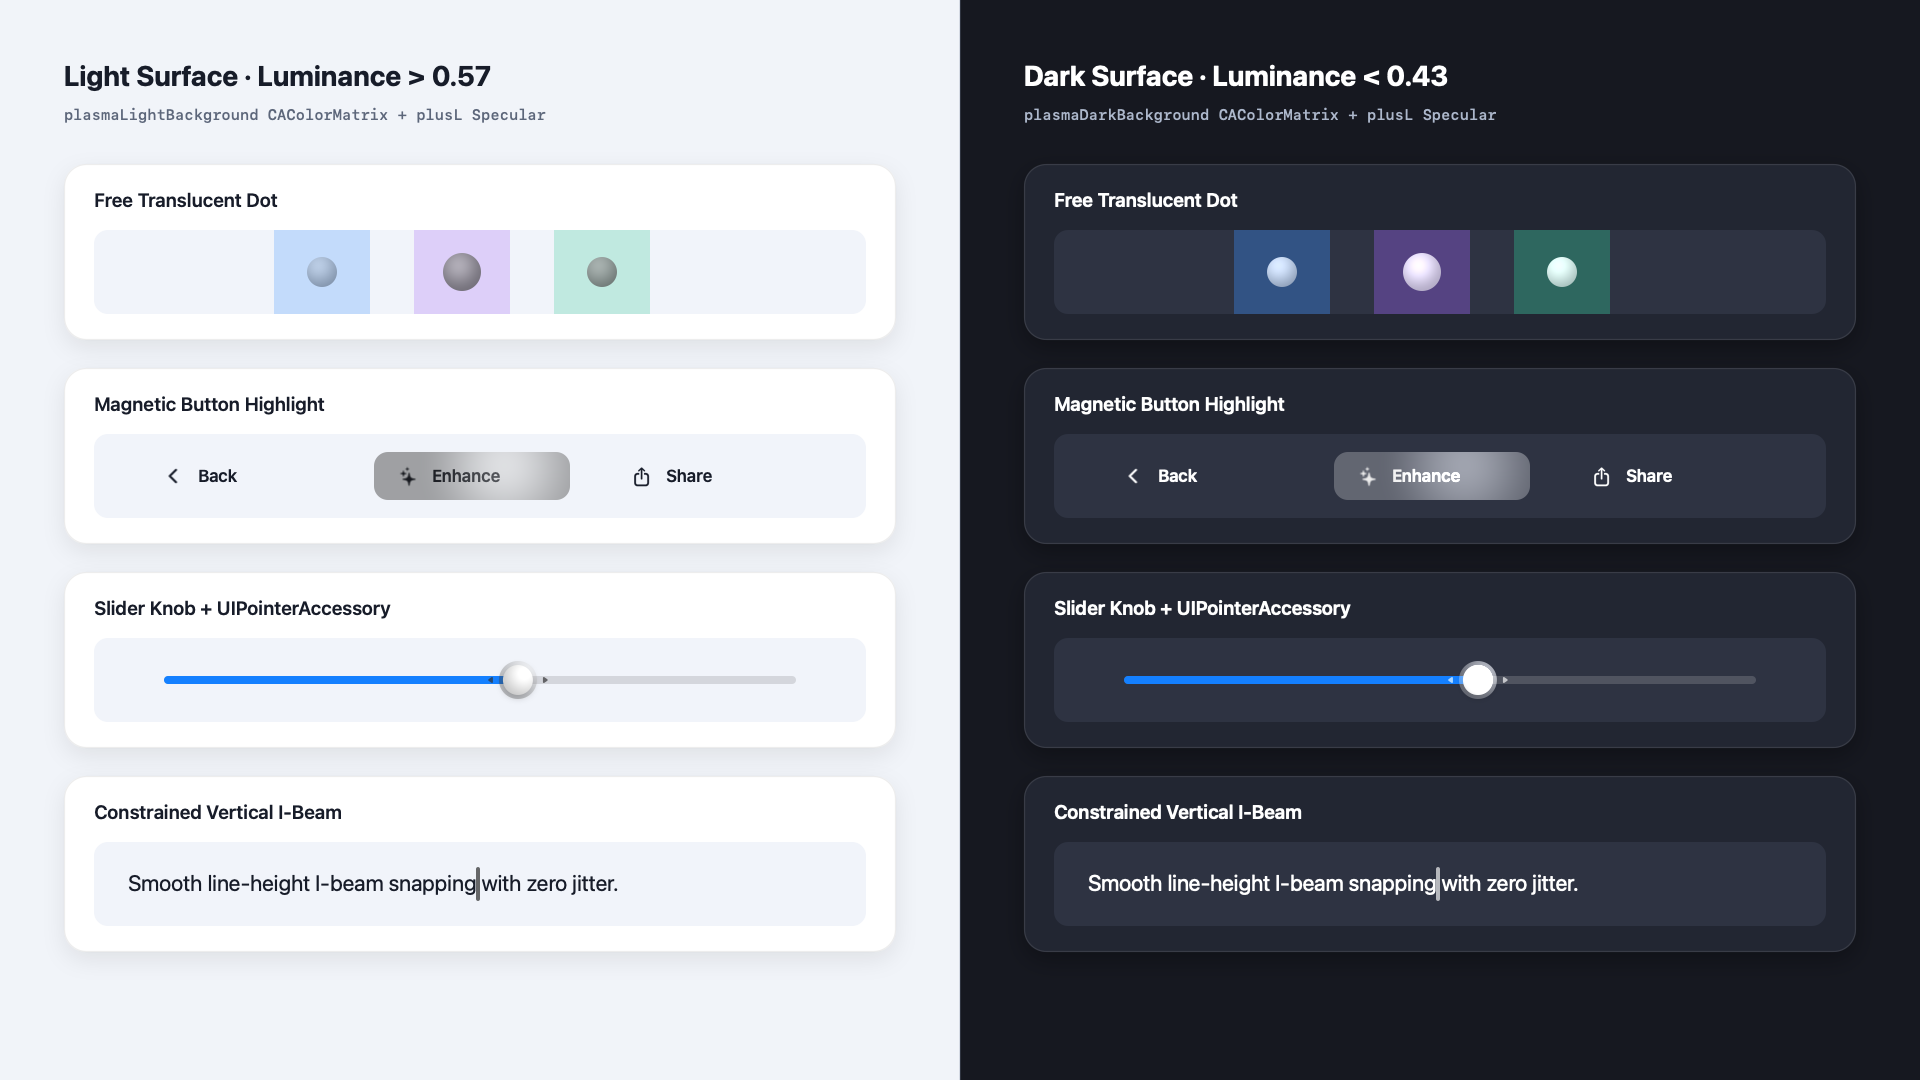
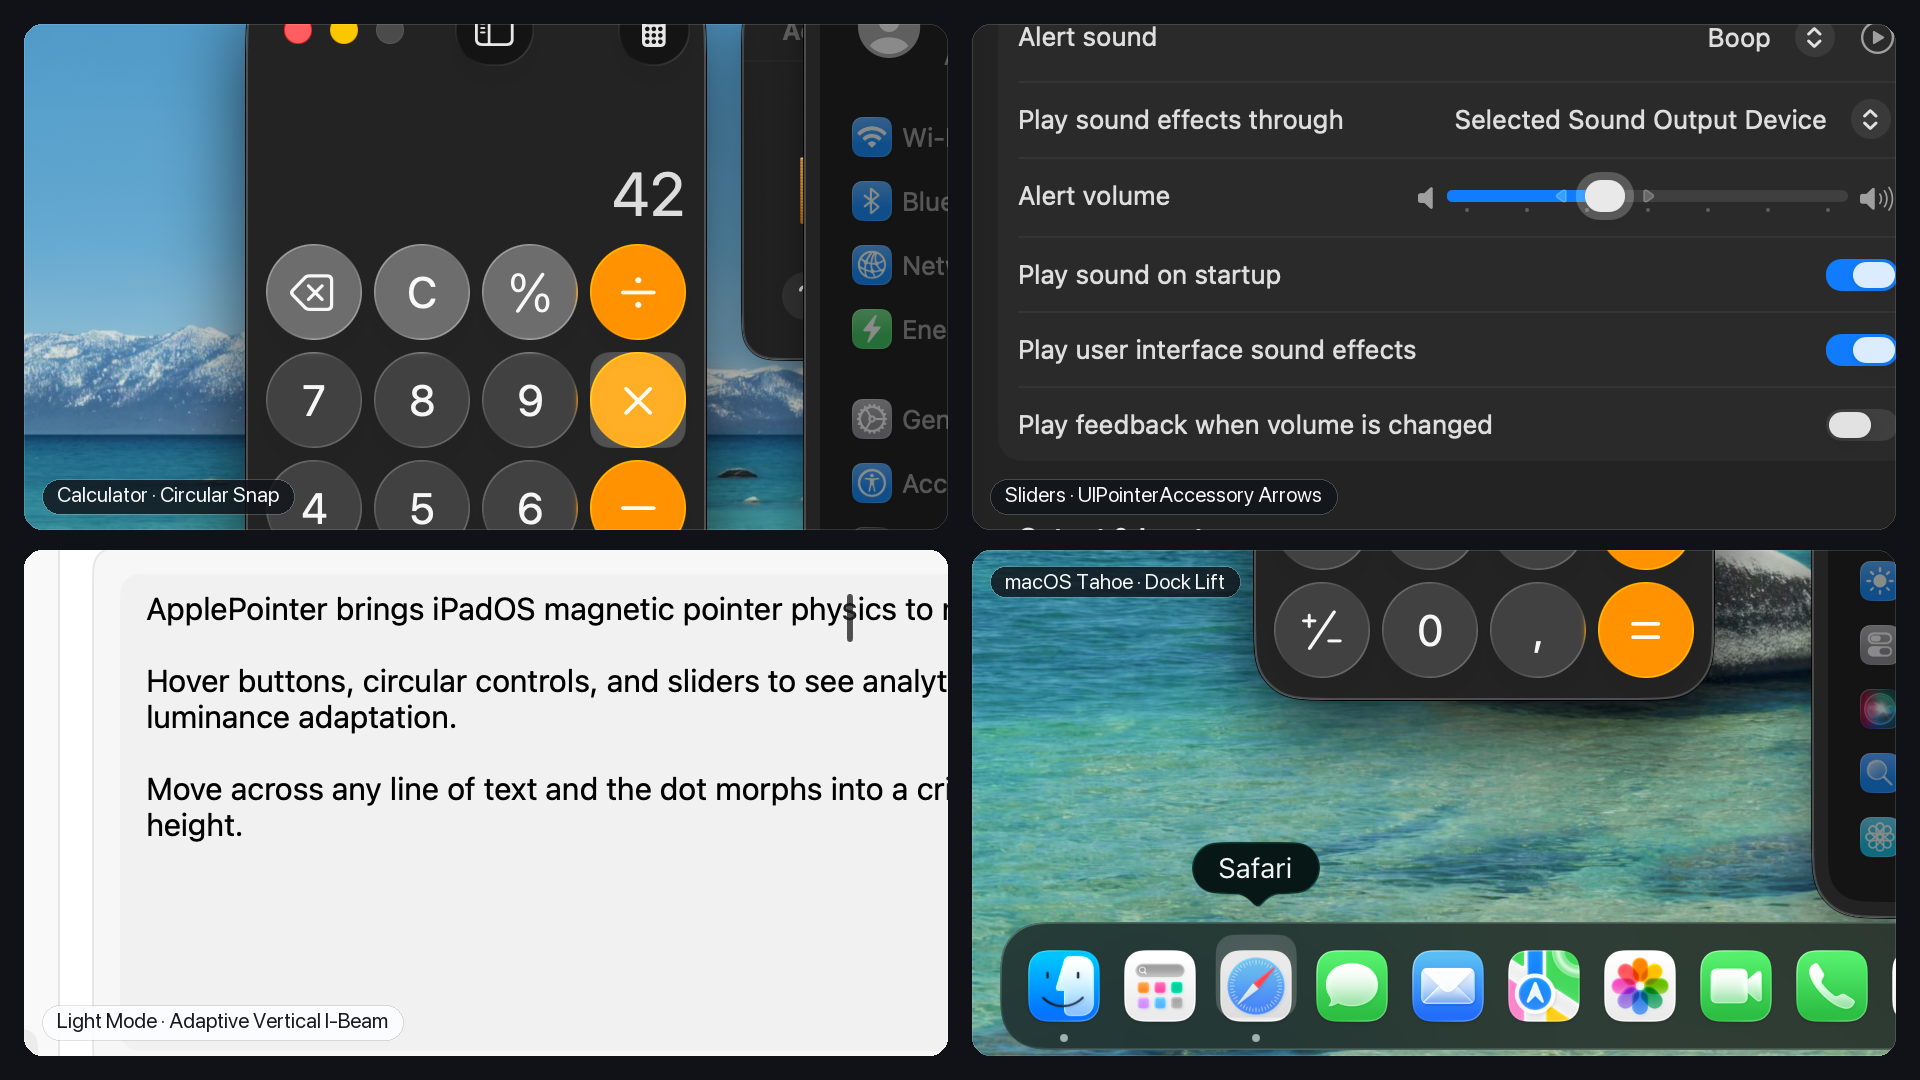
Add Highlight Contrast slider, stronger default snap contrast, and clean macOS Tahoe showcase media (v1.1.0) (#1)

diff --git a/Tests/ApplePointerCoreTests/ApplePointerCoreTests.swift b/Tests/ApplePointerCoreTests/ApplePointerCoreTests.swift
@@ -363,13 +363,13 @@ struct ApplePointerCoreTests {
         for i in 1...180 {
             s = engine.step(dt: 1.0 / 120.0, timestamp: Double(i) / 120.0)
         }
-        #expect(abs(s.intensity - 0.63) < 0.02)
+        #expect(abs(s.intensity - 0.72) < 0.02)
 
         engine.updateBackgroundLuma(0.2)
         for i in 181...360 {
             s = engine.step(dt: 1.0 / 120.0, timestamp: Double(i) / 120.0)
         }
-        #expect(abs(s.intensity - 0.58) < 0.02)
+        #expect(abs(s.intensity - 0.67) < 0.02)
     }
 
     @Test("Specular highlight alpha and scale follow standard and prominent multipliers")
@@ -769,8 +769,12 @@ struct ApplePointerCoreTests {
         #expect(snappedState.isSnapped)
         #expect(snappedState.arrowBlend < 0.02)
         #expect(abs(snappedState.cornerRadius - 18.0) < 0.2)
-        #expect(abs(snappedState.colorMatrix.m15 - PointerColorMatrix.contentOverlayDarkBackground.m15) < 0.02)
-        #expect(abs(snappedState.colorMatrix.m45 - PointerColorMatrix.contentOverlayDarkBackground.m45) < 0.02)
+        let expectedDefaultDark = PointerColorMatrix.contentOverlayDarkBackground.applyingHighlightContrast(
+            isDarkBackground: true,
+            contrast: Float(PointerConfiguration.defaultHighlightContrast)
+        )
+        #expect(abs(snappedState.colorMatrix.m15 - expectedDefaultDark.m15) < 0.02)
+        #expect(abs(snappedState.colorMatrix.m45 - expectedDefaultDark.m45) < 0.02)
 
         // Enabling Increase Contrast boosts snapped highlight intensity cleanly
         engine.configuration.highContrast = true
@@ -800,7 +804,7 @@ struct ApplePointerCoreTests {
         }
         #expect(menuState.isSnapped)
         #expect(abs(menuState.center.x - 130.0) < 0.2) // strictly centered, zero edge overflow
-        #expect(menuState.intensity < 0.22)
+        #expect(menuState.intensity < 0.26)
 
         // Screenshot crosshair overrides snapping and morphs cleanly
         engine.updateSystemCrosshair(true)
@@ -868,6 +872,63 @@ struct ApplePointerCoreTests {
         }
         #expect(abs(subtleState.intensity - (0.74 * 0.60)) < 0.02)
         #expect(subtleState.dotVividnessBoost < 0.01)
+    }
+
+    @Test("Highlight contrast slider scales snapped intensity and color matrix cleanly on light and dark backgrounds")
+    func highlightContrastSliderScalesSnappedMaterial() {
+        var cfg = PointerConfiguration(highlightContrast: 0.20)
+        #expect(abs(cfg.highlightContrast - PointerConfiguration.highlightContrastRange.lowerBound) < 1e-6)
+        cfg = PointerConfiguration(highlightContrast: 3.50)
+        #expect(abs(cfg.highlightContrast - PointerConfiguration.highlightContrastRange.upperBound) < 1e-6)
+
+        // Legacy config JSON without highlightContrast decodes to defaultHighlightContrast (1.0)
+        let legacyJSON = Data(#"{"enabled":true}"#.utf8)
+        let legacyDecoded = try! JSONDecoder().decode(PointerConfiguration.self, from: legacyJSON)
+        #expect(abs(legacyDecoded.highlightContrast - PointerConfiguration.defaultHighlightContrast) < 1e-6)
+
+        let btn = HitTarget(
+            id: "contrast-btn",
+            rect: CGRect(x: 80, y: 82, width: 60, height: 34),
+            cornerRadius: 10.0,
+            kind: .highlight,
+            slipX: 0.099,
+            slipY: 0.09,
+            maxSlipPoints: 6.0,
+            overlayEffectStyle: .standard
+        )
+
+        func settle(contrast: CGFloat, dark: Bool) -> PointerRenderState {
+            let engine = PointerEngine(
+                initialPosition: CGPoint(x: 110, y: 99),
+                timestamp: 0.0,
+                configuration: PointerConfiguration(highlightContrast: contrast)
+            )
+            engine.updateBackgroundLuma(dark ? 0.15 : 0.90)
+            engine.updateHitTarget(btn, at: 0.0)
+            var st = engine.step(dt: 1.0 / 120.0, timestamp: 0.01)
+            for i in 1...180 {
+                st = engine.step(dt: 1.0 / 120.0, timestamp: Double(i) / 120.0)
+            }
+            return st
+        }
+
+        let darkLow = settle(contrast: 0.50, dark: true)
+        let darkDefault = settle(contrast: 1.00, dark: true)
+        let darkHigh = settle(contrast: 1.80, dark: true)
+        #expect(darkDefault.intensity > darkLow.intensity + 0.08)
+        #expect(darkHigh.intensity > darkDefault.intensity + 0.12)
+        #expect(darkDefault.colorMatrix.m15 > darkLow.colorMatrix.m15 + 0.05)
+        #expect(darkDefault.colorMatrix.m45 > darkLow.colorMatrix.m45 + 0.10)
+        #expect(darkHigh.colorMatrix.m15 > darkDefault.colorMatrix.m15 + 0.08)
+
+        let lightLow = settle(contrast: 0.50, dark: false)
+        let lightDefault = settle(contrast: 1.00, dark: false)
+        let lightHigh = settle(contrast: 1.80, dark: false)
+        #expect(lightDefault.intensity > lightLow.intensity + 0.08)
+        #expect(lightHigh.intensity > lightDefault.intensity + 0.12)
+        #expect(lightDefault.colorMatrix.m15 < lightLow.colorMatrix.m15 - 0.03)
+        #expect(lightDefault.colorMatrix.m45 > lightLow.colorMatrix.m45 + 0.10)
+        #expect(lightHigh.colorMatrix.m15 < lightDefault.colorMatrix.m15 - 0.05)
     }
 
     @Test("Constrained vertical I-beam tracks X 1:1 while magnetically aligning Y to text line center")

diff --git a/Sources/ApplePointerCore/PointerEngine.swift b/Sources/ApplePointerCore/PointerEngine.swift
@@ -491,6 +491,8 @@ public final class PointerEngine: @unchecked Sendable {
             : (configuration.highContrast
                 ? ApplePointerConstants.Material.materialAlphaSmallItemDarkHighContrast
                 : ApplePointerConstants.Material.materialAlphaSmallItemDark)
+        let highlightContrast = PointerConfiguration.clampHighlightContrast(configuration.highlightContrast)
+        let highlightContrastShift = (highlightContrast - 0.50) * 0.22
 
         if !isResizing && !isCrosshair && !isSpecialCursor && (systemIBeamActive || activeTarget?.kind == .beam) {
             isSnapped = true
@@ -575,9 +577,9 @@ public final class PointerEngine: @unchecked Sendable {
                 // Keep Liquid Glass object highlights crisp & clearly legible (never dimmer than the free dot)
                 if target.suppressOutline {
                     // Seamless borderless embedding for 3D molecular pieces (clean optical veil, never muddy)
-                    targetIntensity = min(0.76, flexBase + (configuration.highContrast ? 0.22 : 0.10))
+                    targetIntensity = max(0.22, min(0.88, flexBase + (configuration.highContrast ? 0.20 : 0.08) + highlightContrastShift * 0.80))
                 } else {
-                    targetIntensity = min(0.88, flexBase + (configuration.highContrast ? 0.28 : 0.18))
+                    targetIntensity = max(0.24, min(0.96, flexBase + (configuration.highContrast ? 0.26 : 0.16) + highlightContrastShift))
                 }
 
             case .menuItem:
@@ -590,7 +592,8 @@ public final class PointerEngine: @unchecked Sendable {
                 mappedSlip = .zero
                 // Native macOS menus already draw their own selection pill; keep our overlay
                 // subtle so the pointer morphs cleanly into the row without washing out text.
-                targetIntensity = configuration.highContrast ? 0.28 : (effectiveDarkBackground ? 0.20 : 0.18)
+                let baseMenuIntensity: CGFloat = configuration.highContrast ? 0.26 : (effectiveDarkBackground ? 0.18 : 0.16)
+                targetIntensity = max(0.12, min(0.48, baseMenuIntensity + highlightContrastShift * 0.45))
 
             case .lift:
                 isSnapped = true
@@ -621,7 +624,7 @@ public final class PointerEngine: @unchecked Sendable {
                     isDarkBackground: effectiveDarkBackground,
                     visualIntensity: smallItemBaseIntensity
                 )
-                targetIntensity = min(0.82, liftFlex + (configuration.highContrast ? 0.22 : 0.10))
+                targetIntensity = max(0.24, min(0.94, liftFlex + (configuration.highContrast ? 0.20 : 0.10) + highlightContrastShift * 0.90))
 
             case .hover:
                 isSnapped = true
@@ -645,7 +648,7 @@ public final class PointerEngine: @unchecked Sendable {
                     isDarkBackground: effectiveDarkBackground,
                     visualIntensity: smallItemBaseIntensity
                 )
-                targetIntensity = min(0.86, hoverFlex + (configuration.highContrast ? 0.26 : 0.18))
+                targetIntensity = max(0.24, min(0.95, hoverFlex + (configuration.highContrast ? 0.24 : 0.16) + highlightContrastShift))
 
             case .scrollThumb:
                 isSnapped = true
@@ -655,7 +658,8 @@ public final class PointerEngine: @unchecked Sendable {
                 targetRect = target.rect
                 targetCornerRadius = min(target.rect.width, target.rect.height) * 0.5
                 mappedSlip = CGPoint(x: max(0.0, min(1.0, target.slipX)), y: max(0.0, min(1.0, target.slipY)))
-                targetIntensity = configuration.highContrast ? 0.65 : (effectiveDarkBackground ? 0.48 : 0.42)
+                let baseScrollIntensity: CGFloat = configuration.highContrast ? 0.62 : (effectiveDarkBackground ? 0.46 : 0.40)
+                targetIntensity = max(0.25, min(0.88, baseScrollIntensity + highlightContrastShift * 0.75))
             }
         } else {
             isSnapped = false
@@ -835,9 +839,18 @@ public final class PointerEngine: @unchecked Sendable {
 
         let blendedMatrix: PointerColorMatrix
         if isSnapped && !isBeam {
+            let effectiveHighlightContrast = Float(highlightContrast + (configuration.highContrast ? 0.30 : 0.0))
+            let lightOverlay = PointerColorMatrix.contentOverlayLightBackground.applyingHighlightContrast(
+                isDarkBackground: false,
+                contrast: effectiveHighlightContrast
+            )
+            let darkOverlay = PointerColorMatrix.contentOverlayDarkBackground.applyingHighlightContrast(
+                isDarkBackground: true,
+                contrast: effectiveHighlightContrast
+            )
             let baseSnapped = PointerColorMatrix.lerp(
-                .contentOverlayLightBackground,
-                .contentOverlayDarkBackground,
+                lightOverlay,
+                darkOverlay,
                 t: Float(lumaMix.value)
             )
             blendedMatrix = baseSnapped.applyingPressedContrast(

diff --git a/Sources/ApplePointerCore/PointerModels.swift b/Sources/ApplePointerCore/PointerModels.swift
@@ -83,6 +83,8 @@ public struct PointerConfiguration: Codable, Equatable, Sendable {
     public static let dotSizeRange: ClosedRange<CGFloat> = 0.50...2.00
     public static let mouseSizeRange: ClosedRange<CGFloat> = 1.00...2.00
     public static let dotIntensityRange: ClosedRange<CGFloat> = 0.50...1.50
+    public static let highlightContrastRange: ClosedRange<CGFloat> = 0.50...2.00
+    public static let defaultHighlightContrast: CGFloat = 1.00
     public static let autohideDurationRange: ClosedRange<TimeInterval> = 1.0...15.0
     public static let defaultExcludedBundleIDs: [String] = [
         "com.apple.ScreenSharing",
@@ -101,6 +103,7 @@ public struct PointerConfiguration: Codable, Equatable, Sendable {
     public var dotLiquidGlassEnabled: Bool
     public var dotSizeMultiplier: CGFloat
     public var dotIntensity: CGFloat
+    public var highlightContrast: CGFloat
     public var mouseSizeMultiplier: CGFloat
     public var magnetismEnabled: Bool
     public var inertiaEnabled: Bool
@@ -157,6 +160,10 @@ public struct PointerConfiguration: Codable, Equatable, Sendable {
         max(dotIntensityRange.lowerBound, min(dotIntensityRange.upperBound, value))
     }
 
+    public static func clampHighlightContrast(_ value: CGFloat) -> CGFloat {
+        max(highlightContrastRange.lowerBound, min(highlightContrastRange.upperBound, value))
+    }
+
     public static func clampAutohideDuration(_ value: TimeInterval) -> TimeInterval {
         max(autohideDurationRange.lowerBound, min(autohideDurationRange.upperBound, value))
     }
@@ -168,6 +175,7 @@ public struct PointerConfiguration: Codable, Equatable, Sendable {
         dotLiquidGlassEnabled: Bool? = nil,
         dotSizeMultiplier: CGFloat = 1.0,
         dotIntensity: CGFloat = 1.0,
+        highlightContrast: CGFloat = PointerConfiguration.defaultHighlightContrast,
         mouseSizeMultiplier: CGFloat = 1.0,
         magnetismEnabled: Bool = true,
         inertiaEnabled: Bool = true,
@@ -190,6 +198,7 @@ public struct PointerConfiguration: Codable, Equatable, Sendable {
         self.dotLiquidGlassEnabled = dotLiquidGlassEnabled ?? (materialPreset == .liquidGlass)
         self.dotSizeMultiplier = Self.clampDotSize(dotSizeMultiplier)
         self.dotIntensity = Self.clampDotIntensity(dotIntensity)
+        self.highlightContrast = Self.clampHighlightContrast(highlightContrast)
         self.mouseSizeMultiplier = Self.clampMouseSize(mouseSizeMultiplier)
         self.magnetismEnabled = magnetismEnabled
         self.inertiaEnabled = inertiaEnabled
@@ -214,6 +223,7 @@ public struct PointerConfiguration: Codable, Equatable, Sendable {
         case dotLiquidGlassEnabled
         case dotSizeMultiplier
         case dotIntensity
+        case highlightContrast
         case mouseSizeMultiplier
         case pointerSizeMultiplier
         case magnetismEnabled
@@ -241,6 +251,7 @@ public struct PointerConfiguration: Codable, Equatable, Sendable {
         let legacySize = try c.decodeIfPresent(CGFloat.self, forKey: .pointerSizeMultiplier) ?? 1.0
         self.dotSizeMultiplier = Self.clampDotSize(try c.decodeIfPresent(CGFloat.self, forKey: .dotSizeMultiplier) ?? legacySize)
         self.dotIntensity = Self.clampDotIntensity(try c.decodeIfPresent(CGFloat.self, forKey: .dotIntensity) ?? 1.0)
+        self.highlightContrast = Self.clampHighlightContrast(try c.decodeIfPresent(CGFloat.self, forKey: .highlightContrast) ?? Self.defaultHighlightContrast)
         self.mouseSizeMultiplier = Self.clampMouseSize(try c.decodeIfPresent(CGFloat.self, forKey: .mouseSizeMultiplier) ?? legacySize)
         self.magnetismEnabled = try c.decodeIfPresent(Bool.self, forKey: .magnetismEnabled) ?? true
         self.inertiaEnabled = try c.decodeIfPresent(Bool.self, forKey: .inertiaEnabled) ?? true
@@ -266,6 +277,7 @@ public struct PointerConfiguration: Codable, Equatable, Sendable {
         try c.encode(dotLiquidGlassEnabled, forKey: .dotLiquidGlassEnabled)
         try c.encode(dotSizeMultiplier, forKey: .dotSizeMultiplier)
         try c.encode(dotIntensity, forKey: .dotIntensity)
+        try c.encode(highlightContrast, forKey: .highlightContrast)
         try c.encode(mouseSizeMultiplier, forKey: .mouseSizeMultiplier)
         try c.encode(magnetismEnabled, forKey: .magnetismEnabled)
         try c.encode(inertiaEnabled, forKey: .inertiaEnabled)

diff --git a/Sources/ApplePointer/SettingsWindowController.swift b/Sources/ApplePointer/SettingsWindowController.swift
@@ -130,7 +130,7 @@ struct SettingsRootView: View {
             }
             .frame(maxWidth: .infinity, maxHeight: .infinity)
         }
-        .frame(width: 540, height: 500)
+        .frame(width: 540, height: 536)
     }
 
     private var headerBar: some View {
@@ -235,6 +235,20 @@ struct SettingsRootView: View {
                     (controller.configuration.liquidGlassEnabled || (!isMouseStyle && controller.configuration.dotLiquidGlassEnabled)) ? "Glass Sheen & Rim" : "Highlight Specular",
                     isOn: $controller.configuration.specularEnabled
                 )
+                LabeledContent("Highlight Contrast") {
+                    HStack(spacing: 10) {
+                        Slider(
+                            value: $controller.configuration.highlightContrast,
+                            in: PointerConfiguration.highlightContrastRange,
+                            step: 0.05
+                        )
+                        .frame(width: 180)
+                        Text("\(Int(round(controller.configuration.highlightContrast * 100.0)))%")
+                            .font(.body.monospacedDigit())
+                            .foregroundStyle(.secondary)
+                            .frame(width: 50, alignment: .trailing)
+                    }
+                }
                 if !isMouseStyle {
                     LabeledContent("Dot Opacity") {
                         HStack(spacing: 10) {
@@ -393,7 +407,7 @@ final class SettingsWindowController: NSObject, NSWindowDelegate {
 
         let host = NSHostingController(rootView: SettingsRootView(controller: pointerController))
         let win = NSWindow(
-            contentRect: NSRect(x: 0, y: 0, width: 540, height: 500),
+            contentRect: NSRect(x: 0, y: 0, width: 540, height: 536),
             styleMask: [.titled, .closable, .miniaturizable],
             backing: .buffered,
             defer: false

diff --git a/Sources/ApplePointerCore/ColorMatrix.swift b/Sources/ApplePointerCore/ColorMatrix.swift
@@ -151,6 +151,23 @@ public struct PointerColorMatrix: Equatable, Sendable {
         )
     }
 
+    /// Adjusts snapped highlight contrast cleanly across light and dark backgrounds.
+    /// contrast spans 0.50...2.00 (plus optional high-contrast headroom), where 0.50
+    /// preserves the subtle stock overlay matrix and 1.00 gives a crisper default highlight.
+    public func applyingHighlightContrast(isDarkBackground: Bool, contrast: Float) -> PointerColorMatrix {
+        let clamped = max(0.50, min(2.40, contrast))
+        let factor = max(0.0, (clamped - 0.50) / 0.50)
+        guard factor > 0.001 else { return self }
+        let rgbShift: Float = (isDarkBackground ? 0.080 : -0.055) * factor
+        let alphaShift: Float = 0.140 * factor
+        return PointerColorMatrix(
+            m11, m12, m13, m14, m15 + rgbShift,
+            m21, m22, m23, m24, m25 + rgbShift,
+            m31, m32, m33, m34, m35 + rgbShift,
+            m41, m42, m43, m44, m45 + alphaShift
+        )
+    }
+
     public func asNSValue() -> NSValue {
         var copy = self
         return NSValue(bytes: &copy, objCType: "{CAColorMatrix=ffffffffffffffffffff}")

diff --git a/Sources/ApplePointer/MenuBarController.swift b/Sources/ApplePointer/MenuBarController.swift
@@ -97,6 +97,22 @@ struct MenuBarPopoverView: View {
                 Slider(value: activeSizeBinding, in: activeSizeRange, step: 0.05)
             }
 
+            VStack(alignment: .leading, spacing: 6) {
+                HStack {
+                    Text("Highlight Contrast")
+                        .font(.system(size: 13, weight: .medium))
+                    Spacer()
+                    Text("\(Int(round(controller.configuration.highlightContrast * 100.0)))%")
+                        .font(.system(size: 12.5).monospacedDigit())
+                        .foregroundStyle(.secondary)
+                }
+                Slider(
+                    value: $controller.configuration.highlightContrast,
+                    in: PointerConfiguration.highlightContrastRange,
+                    step: 0.05
+                )
+            }
+
             Divider()
 
             VStack(spacing: 10) {

diff --git a/README.md b/README.md
@@ -27,7 +27,7 @@ ApplePointer lives quietly in the menu bar (`⌃⌥⌘P` toggles it on or off an
 
 ![ApplePointer Settings in Light and Dark Mode](docs/assets/settings-ui.png)
 
-- **Pointer**: Dot or Arrow style, size slider, Liquid Glass / Classic material, specular highlight, dot opacity, optional center dot, increase contrast, Shake to Find, and Accessibility Zoom scaling.
+- **Pointer**: Dot or Arrow style, size slider, Liquid Glass / Classic material, specular highlight, highlight contrast slider, dot opacity, optional center dot, increase contrast, Shake to Find, and Accessibility Zoom scaling.
 - **Behavior**: Magnetic Snap, Fast-Flight Inertia, Smooth Typing Caret, Hide Pointer While Typing, Auto-Hide When Idle, native resize cursor toggle, and custom app tool cursor passthrough.
 - **Apps**: Launch at Login and per-app exclusion list (Remote Desktop / screen-sharing apps are excluded by default).
 
@@ -35,7 +35,7 @@ ApplePointer lives quietly in the menu bar (`⌃⌥⌘P` toggles it on or off an
 
 Download the Universal (`arm64` + `x86_64`) DMG or ZIP from [Releases](https://github.com/SergeiNikolenko/ApplePointer/releases/latest) (requires **macOS 14 Sonoma or later**):
 
-1. Open `ApplePointer-1.0.0.dmg` and drag **ApplePointer.app** to `/Applications`.
+1. Open `ApplePointer-1.1.0.dmg` and drag **ApplePointer.app** to `/Applications`.
 2. Because this open-source build is ad-hoc signed rather than Apple notarized, clear the quarantine attribute if macOS blocks the first launch:
 
 ```bash
